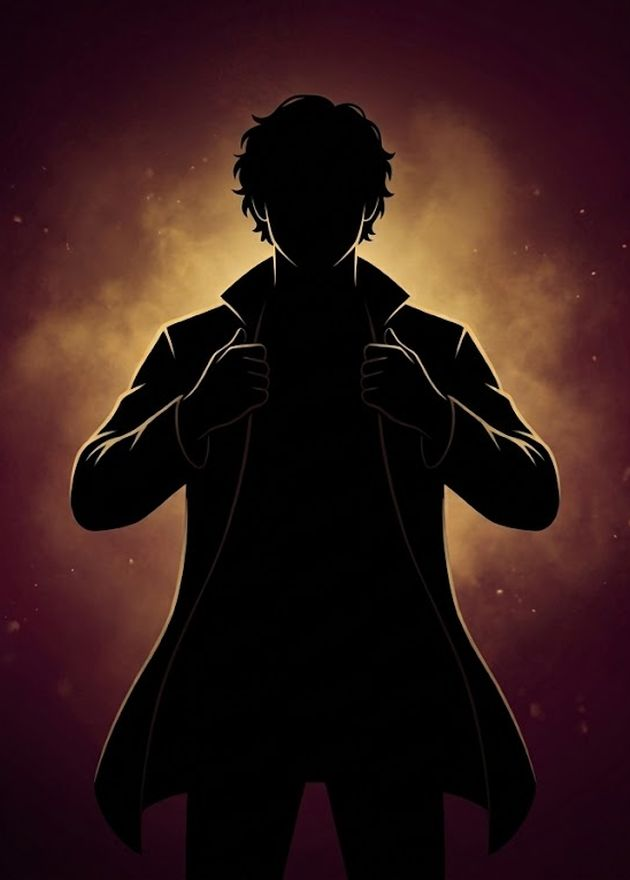
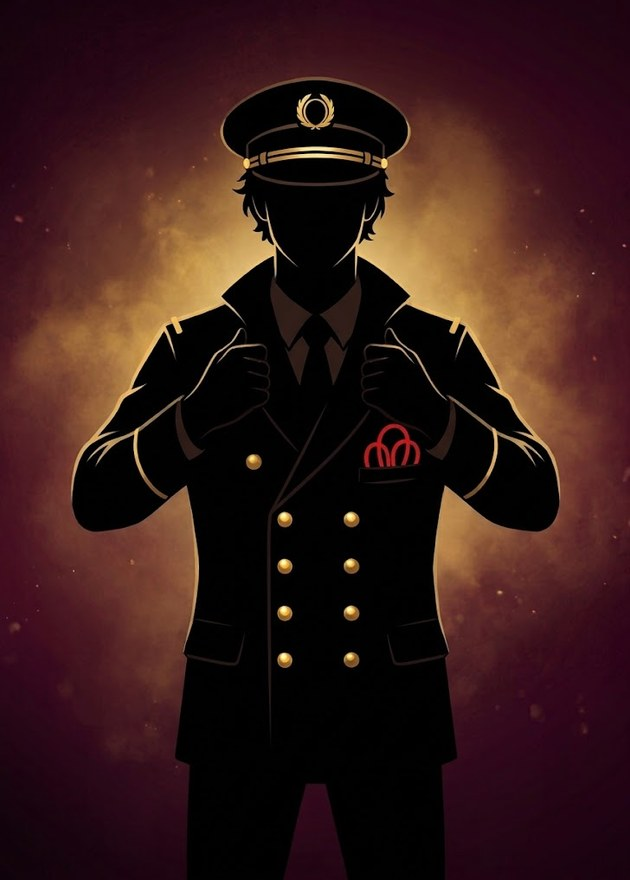
Gadz sans photo : nouvelle image zag en pleine carte
Claude-Session: https://claude.ai/code/session_01DiM921GLJ48aDAe4EXxL3N

diff --git a/index.html b/index.html
@@ -564,7 +564,7 @@ function textboxHTML(card) {
   return `<div class="textbox"><p>${esc(card.text)}</p></div>`;
 }
 // Fond neutre des Gadz sans photo
-const GADZ_DEFAULT = { normale: "assets/gadz-defaut-normale.jpg", textless: "assets/gadz-defaut-textless.jpg" };
+const GADZ_DEFAULT = { normale: "assets/gadz-defaut-normale.jpg", textless: "assets/gadz-defaut-textless.jpg?v=2" };
 const photoOf = c => c.photo || (c.type === "Gadz" ? GADZ_DEFAULT : null);
 function cardEl(card, variant = "normale") {
   const el = document.createElement("div");
